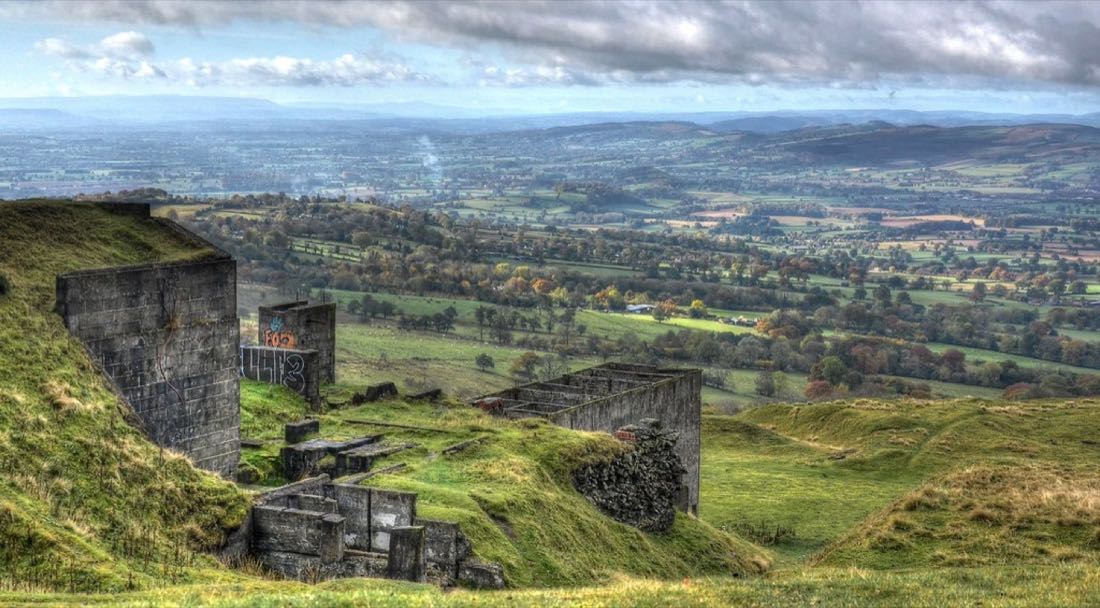
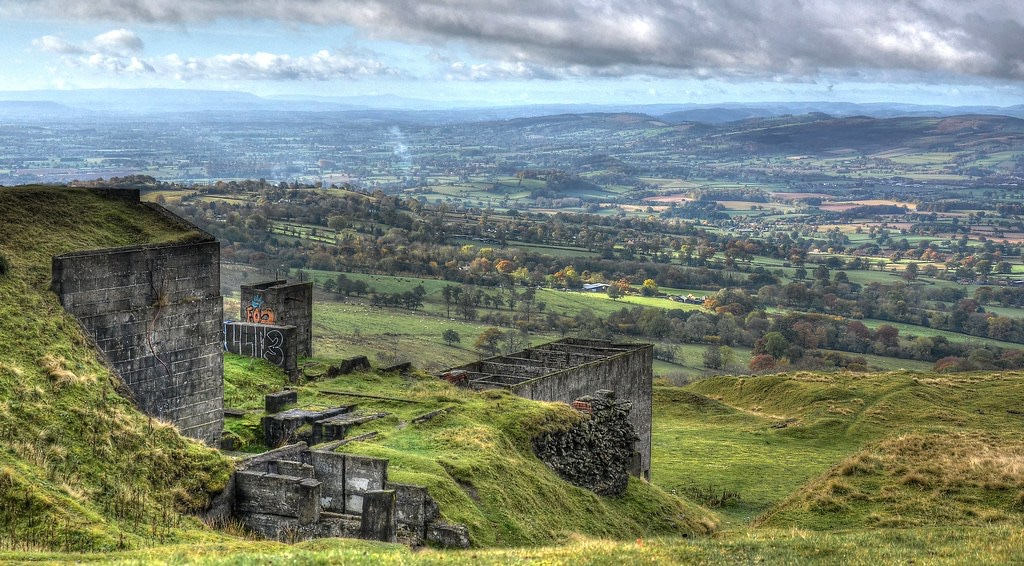
Use real Shropshire stay photographs and improve image quality

diff --git a/journeys.html b/journeys.html
@@ -6,7 +6,7 @@
 <meta name="description" content="Discover a more rewarding way to explore with Open Road's self-guided touring experience.">
 <title>Journeys | Open Road Technologies</title>
 <style>
-:root{--ink:#0a2233;--night:#061b2a;--teal:#00baa8;--bright:#51e7d3;--paper:#f7f6f1;--soft:#e9eee9;--body:#48606b}*{box-sizing:border-box}html{scroll-behavior:smooth}body{margin:0;background:var(--paper);color:var(--ink);font-family:system-ui,-apple-system,BlinkMacSystemFont,'Segoe UI',sans-serif;line-height:1.6}a{color:inherit}a:focus-visible{outline:3px solid #f5b642;outline-offset:5px}img{display:block;max-width:100%}.wrap{width:min(1180px,calc(100% - 48px));margin:auto}.site-header{background:var(--night);color:#fff}.nav{min-height:82px;display:flex;align-items:center;justify-content:space-between;gap:28px}.brand{text-decoration:none;font-weight:750;font-size:15px;letter-spacing:.16em;display:flex;align-items:center;gap:12px;line-height:1.25}.compass{color:var(--bright);font-size:31px;font-weight:400}.brand small{display:block;color:var(--bright);font-size:9px;letter-spacing:.32em}.navlinks{display:flex;gap:28px;align-items:center;font-size:14px}.navlinks a{text-decoration:none;color:#e1eceb}.navlinks a:hover{color:var(--bright)}.hero{background:var(--night);color:white;position:relative;min-height:570px;display:flex;align-items:center;overflow:hidden}.hero:before{content:'';position:absolute;inset:0;background:linear-gradient(90deg,#061b2a 0%,rgba(6,27,42,.96) 27%,rgba(6,27,42,.55) 58%,rgba(6,27,42,.1) 100%),url('assets/shropshire-journey.jpg') center 54%/cover}.hero .wrap{position:relative;padding:90px 0 100px}.eyebrow{text-transform:uppercase;letter-spacing:.17em;font-size:12px;font-weight:800;color:#007c73}.hero .eyebrow,.dark .eyebrow{color:var(--bright)}h1,h2,h3{font-family:Georgia,'Times New Roman',serif;line-height:1.1;letter-spacing:-.035em}h1{font-size:clamp(3.2rem,6.6vw,6rem);max-width:730px;margin:20px 0 24px}h2{font-size:clamp(2.3rem,4vw,3.8rem);margin:12px 0 20px}h3{font-size:1.55rem;margin:12px 0}.hero p{font-size:1.2rem;max-width:500px;color:#e2eceb}.button{display:inline-flex;align-items:center;justify-content:center;gap:18px;text-decoration:none;padding:14px 22px;border-radius:5px;background:var(--bright);color:#062a2b;font-weight:750;margin-top:18px}.button:hover{background:#a0f5e8}.steps{background:#e9ede8;border-bottom:1px solid #d5ded8}.steps .wrap{display:grid;grid-template-columns:repeat(3,1fr)}.step{display:flex;align-items:center;gap:17px;padding:25px 18px;border-right:1px solid #c8d8d0;font-family:Georgia,serif;font-size:1.1rem;font-weight:bold}.step:last-child{border:0}.step b{font-family:system-ui;color:#078f84;font-size:.72rem;letter-spacing:.1em}.section{padding:94px 0}.intro{max-width:720px}.intro p,.copy{color:var(--body);font-size:1.08rem}.features{display:grid;grid-template-columns:repeat(3,1fr);gap:26px;margin-top:42px}.feature{border-top:2px solid #a3dcd3;padding:24px 10px 0 0}.feature .number{color:#008b7f;font-size:.75rem;font-weight:800;letter-spacing:.15em}.feature p{color:var(--body);max-width:310px}.destination{background:var(--night);color:white;display:grid;grid-template-columns:1fr 1fr;min-height:440px}.destination-copy{padding:76px max(24px,calc((100vw - 1180px)/2));padding-right:56px;align-self:center}.destination-copy p{color:#d0dddd;max-width:410px}.destination-image{position:relative;min-height:320px;overflow:hidden;background:#183642}.slides{position:absolute;inset:0}.slide{position:absolute;inset:0;margin:0}.slide[hidden]{display:none}.slide img{width:100%;height:100%;object-fit:cover}.slideshow-controls{position:absolute;bottom:18px;right:18px;display:flex;gap:8px;align-items:center;padding:7px;background:rgba(6,27,42,.82);border-radius:7px}.slideshow-controls button{min-width:44px;min-height:44px;border:1px solid #b7d5d1;border-radius:4px;background:transparent;color:white;cursor:pointer;font:600 .85rem system-ui}.slideshow-controls button:hover{background:#24554f}.slideshow-controls button:focus-visible{outline:3px solid #f5b642;outline-offset:2px}.slide-count{font-size:.8rem;color:white;padding:0 5px;font-variant-numeric:tabular-nums}.slideshow-controls[hidden]{display:none}.showcase{background:#e9eee9}.showcase-grid{display:grid;grid-template-columns:1fr 1fr;gap:70px;align-items:center}.screens{display:flex;gap:14px;justify-content:center;align-items:center}.screens img{width:31%;border:4px solid #102736;border-radius:20px;box-shadow:0 18px 38px #10273625}.screens img:nth-child(2){transform:translateY(20px)}.showcase p{color:var(--body)}.stay{background:#eef2ed}.stay-grid{display:grid;grid-template-columns:1fr 1fr;gap:24px;margin-top:35px}.stay-card{background:#fff;border:1px solid #dce5dc;padding:34px;min-height:220px;display:flex;flex-direction:column;justify-content:space-between}.stay-icon{font-size:28px;color:#008e81}.stay-card p{color:var(--body);margin:0;max-width:450px}.story{display:grid;grid-template-columns:1fr 1fr;gap:70px;align-items:start}.story p{color:var(--body)}.note{border-left:3px solid var(--teal);padding:0 0 0 25px}.foot{background:var(--night);color:#d2e0df;padding:48px 0}.foot .wrap{display:flex;justify-content:space-between;gap:30px;flex-wrap:wrap}.foot a{color:var(--bright)}.foot p{margin:8px 0;font-size:.9rem}@media(max-width:750px){.wrap{width:min(100% - 36px,1180px)}.nav{padding:18px 0;align-items:flex-start}.navlinks{gap:10px 16px;flex-wrap:wrap;justify-content:flex-end;font-size:12px}.hero{min-height:540px}.hero:before{background:linear-gradient(90deg,rgba(6,27,42,.93),rgba(6,27,42,.55)),url('assets/shropshire-journey.jpg') 62% center/cover}.hero .wrap{padding:80px 0}.steps .wrap{grid-template-columns:1fr}.step{border-right:0;border-bottom:1px solid #c8d8d0;padding:13px 0}.features,.stay-grid,.story,.destination,.showcase-grid{grid-template-columns:1fr}.showcase-grid{gap:32px}.screens{padding:0 0 20px}.section{padding:65px 0}.destination-copy{padding:65px 24px}.destination-image{min-height:270px}.story{gap:30px}}@media(prefers-reduced-motion:reduce){html{scroll-behavior:auto}}
+:root{--ink:#0a2233;--night:#061b2a;--teal:#00baa8;--bright:#51e7d3;--paper:#f7f6f1;--soft:#e9eee9;--body:#48606b}*{box-sizing:border-box}html{scroll-behavior:smooth}body{margin:0;background:var(--paper);color:var(--ink);font-family:system-ui,-apple-system,BlinkMacSystemFont,'Segoe UI',sans-serif;line-height:1.6}a{color:inherit}a:focus-visible{outline:3px solid #f5b642;outline-offset:5px}img{display:block;max-width:100%}.wrap{width:min(1180px,calc(100% - 48px));margin:auto}.site-header{background:var(--night);color:#fff}.nav{min-height:82px;display:flex;align-items:center;justify-content:space-between;gap:28px}.brand{text-decoration:none;font-weight:750;font-size:15px;letter-spacing:.16em;display:flex;align-items:center;gap:12px;line-height:1.25}.compass{color:var(--bright);font-size:31px;font-weight:400}.brand small{display:block;color:var(--bright);font-size:9px;letter-spacing:.32em}.navlinks{display:flex;gap:28px;align-items:center;font-size:14px}.navlinks a{text-decoration:none;color:#e1eceb}.navlinks a:hover{color:var(--bright)}.hero{background:var(--night);color:white;position:relative;min-height:570px;display:flex;align-items:center;overflow:hidden}.hero:before{content:'';position:absolute;inset:0;background:linear-gradient(90deg,#061b2a 0%,rgba(6,27,42,.96) 27%,rgba(6,27,42,.55) 58%,rgba(6,27,42,.1) 100%),url('assets/hilltop-view.jpg?v=2') center 54%/cover}.hero .wrap{position:relative;padding:90px 0 100px}.eyebrow{text-transform:uppercase;letter-spacing:.17em;font-size:12px;font-weight:800;color:#007c73}.hero .eyebrow,.dark .eyebrow{color:var(--bright)}h1,h2,h3{font-family:Georgia,'Times New Roman',serif;line-height:1.1;letter-spacing:-.035em}h1{font-size:clamp(3.2rem,6.6vw,6rem);max-width:730px;margin:20px 0 24px}h2{font-size:clamp(2.3rem,4vw,3.8rem);margin:12px 0 20px}h3{font-size:1.55rem;margin:12px 0}.hero p{font-size:1.2rem;max-width:500px;color:#e2eceb}.button{display:inline-flex;align-items:center;justify-content:center;gap:18px;text-decoration:none;padding:14px 22px;border-radius:5px;background:var(--bright);color:#062a2b;font-weight:750;margin-top:18px}.button:hover{background:#a0f5e8}.steps{background:#e9ede8;border-bottom:1px solid #d5ded8}.steps .wrap{display:grid;grid-template-columns:repeat(3,1fr)}.step{display:flex;align-items:center;gap:17px;padding:25px 18px;border-right:1px solid #c8d8d0;font-family:Georgia,serif;font-size:1.1rem;font-weight:bold}.step:last-child{border:0}.step b{font-family:system-ui;color:#078f84;font-size:.72rem;letter-spacing:.1em}.section{padding:94px 0}.intro{max-width:720px}.intro p,.copy{color:var(--body);font-size:1.08rem}.features{display:grid;grid-template-columns:repeat(3,1fr);gap:26px;margin-top:42px}.feature{border-top:2px solid #a3dcd3;padding:24px 10px 0 0}.feature .number{color:#008b7f;font-size:.75rem;font-weight:800;letter-spacing:.15em}.feature p{color:var(--body);max-width:310px}.destination{background:var(--night);color:white;display:grid;grid-template-columns:1fr 1fr;min-height:440px}.destination-copy{padding:76px max(24px,calc((100vw - 1180px)/2));padding-right:56px;align-self:center}.destination-copy p{color:#d0dddd;max-width:410px}.destination-image{position:relative;min-height:320px;overflow:hidden;background:#183642}.slides{position:absolute;inset:0}.slide{position:absolute;inset:0;margin:0}.slide[hidden]{display:none}.slide img{width:100%;height:100%;object-fit:cover}.slide figcaption{position:absolute;top:14px;left:14px;background:rgba(6,27,42,.78);color:white;font-size:.72rem;padding:4px 8px;border-radius:4px}.image-note{display:block;color:#62767e;font-size:.75rem;margin-top:12px}.slideshow-controls{position:absolute;bottom:18px;right:18px;display:flex;gap:8px;align-items:center;padding:7px;background:rgba(6,27,42,.82);border-radius:7px}.slideshow-controls button{min-width:44px;min-height:44px;border:1px solid #b7d5d1;border-radius:4px;background:transparent;color:white;cursor:pointer;font:600 .85rem system-ui}.slideshow-controls button:hover{background:#24554f}.slideshow-controls button:focus-visible{outline:3px solid #f5b642;outline-offset:2px}.slide-count{font-size:.8rem;color:white;padding:0 5px;font-variant-numeric:tabular-nums}.slideshow-controls[hidden]{display:none}.showcase{background:#e9eee9}.showcase-grid{display:grid;grid-template-columns:1fr 1fr;gap:70px;align-items:center}.screens{display:flex;gap:14px;justify-content:center;align-items:center}.screens img{width:31%;border:4px solid #102736;border-radius:20px;box-shadow:0 18px 38px #10273625}.screens img:nth-child(2){transform:translateY(20px)}.showcase p{color:var(--body)}.stay{background:#eef2ed}.stay-grid{display:grid;grid-template-columns:1fr 1fr;gap:24px;margin-top:35px}.stay-card{background:#fff;border:1px solid #dce5dc;overflow:hidden}.stay-card img{width:100%;height:240px;object-fit:cover}.stay-card .stay-copy{padding:24px 30px 30px}.stay-icon{font-size:28px;color:#008e81}.stay-card p{color:var(--body);margin:0;max-width:450px}.story{display:grid;grid-template-columns:1fr 1fr;gap:70px;align-items:start}.story p{color:var(--body)}.note{border-left:3px solid var(--teal);padding:0 0 0 25px}.foot{background:var(--night);color:#d2e0df;padding:48px 0}.foot .wrap{display:flex;justify-content:space-between;gap:30px;flex-wrap:wrap}.foot a{color:var(--bright)}.foot p{margin:8px 0;font-size:.9rem}@media(max-width:750px){.wrap{width:min(100% - 36px,1180px)}.nav{padding:18px 0;align-items:flex-start}.navlinks{gap:10px 16px;flex-wrap:wrap;justify-content:flex-end;font-size:12px}.hero{min-height:540px}.hero:before{background:linear-gradient(90deg,rgba(6,27,42,.93),rgba(6,27,42,.55)),url('assets/hilltop-view.jpg?v=2') 62% center/cover}.hero .wrap{padding:80px 0}.steps .wrap{grid-template-columns:1fr}.step{border-right:0;border-bottom:1px solid #c8d8d0;padding:13px 0}.features,.stay-grid,.story,.destination,.showcase-grid{grid-template-columns:1fr}.showcase-grid{gap:32px}.screens{padding:0 0 20px}.section{padding:65px 0}.destination-copy{padding:65px 24px}.destination-image{min-height:270px}.story{gap:30px}}@media(prefers-reduced-motion:reduce){html{scroll-behavior:auto}}
 </style>
 </head>
 <body>
@@ -18,15 +18,14 @@
 <section class="section showcase"><div class="wrap showcase-grid"><div><span class="eyebrow">See Open Road in action</span><h2>Your journey, in your hands.</h2><p>Explore your tours, find places to see and enjoy location-aware stories as you travel. These screenshots show the Open Road touring experience.</p></div><div class="screens"><img src="assets/app-tours.jpg" alt="My Tours showing Ludlow and Shropshire and Jurassic Coast tours" loading="lazy"><img src="assets/app-discover.jpg" alt="Things to See and Do around Ludlow" loading="lazy"><img src="assets/app-tour.jpg" alt="An active tour with a map and narration playing" loading="lazy"></div></div></section>
 <section class="destination dark" id="explore"><div class="destination-copy"><span class="eyebrow">A journey to inspire</span><h2>Explore Ludlow and Shropshire.</h2><p>From Ludlow’s historic streets to the Shropshire Hills, discover local stories and memorable places along the way.</p><a class="button" href="mailto:hello@openroadtechnologies.co.uk?subject=Ludlow%20and%20Shropshire%20tour%20enquiry">Ask us about the tour <span aria-hidden="true">→</span></a></div><div class="destination-image" role="region" aria-roledescription="carousel" aria-label="Views from the journey">
 <div class="slides">
-<figure class="slide" aria-label="1 of 5"><img src="assets/shropshire-hills.jpg" alt="A green valley with a stream and track through the hills"></figure>
-<figure class="slide" aria-label="2 of 5" hidden><img src="assets/country-house.jpg" alt="Longhorn cattle beside a country house" loading="lazy"></figure>
-<figure class="slide" aria-label="3 of 5" hidden><img src="assets/discovery-centre.jpg" alt="A visitor centre with a green roof among wooded hills" loading="lazy"></figure>
-<figure class="slide" aria-label="4 of 5" hidden><img src="assets/river-town.jpg" alt="Illustration of a riverside town and stone bridge at sunset" loading="lazy"></figure>
-<figure class="slide" aria-label="5 of 5" hidden><img src="assets/hilltop-view.jpg" alt="A hilltop view over fields and distant hills" loading="lazy"></figure>
+<figure class="slide" aria-label="1 of 4"><img src="assets/country-house.jpg?v=2" alt="Longhorn cattle beside a country house"></figure>
+<figure class="slide" aria-label="2 of 4" hidden><img src="assets/discovery-centre.jpg?v=2" alt="A visitor centre with a green roof among wooded hills" loading="lazy"></figure>
+<figure class="slide" aria-label="3 of 4" hidden><img src="assets/hilltop-view.jpg?v=2" alt="A hilltop view over fields and distant hills" loading="lazy"></figure>
+<figure class="slide" aria-label="4 of 4" hidden><img src="assets/shropshire-hills.jpg?v=2" alt="A green valley with a stream and track through the hills" loading="lazy"></figure>
 </div>
-<div class="slideshow-controls" aria-label="Slideshow controls" hidden><button type="button" data-action="prev" aria-label="Previous image">←</button><span class="slide-count" aria-hidden="true">1 / 5</span><button type="button" data-action="next" aria-label="Next image">→</button><button type="button" data-action="toggle" aria-label="Pause slideshow">Pause</button></div>
+<div class="slideshow-controls" aria-label="Slideshow controls" hidden><button type="button" data-action="prev" aria-label="Previous image">←</button><span class="slide-count" aria-hidden="true">1 / 4</span><button type="button" data-action="next" aria-label="Next image">→</button><button type="button" data-action="toggle" aria-label="Pause slideshow">Pause</button></div>
 </div></section>
-<section class="section stay" id="stay"><div class="wrap"><div class="intro"><span class="eyebrow">Along the way</span><h2>Find your kind of stay.</h2><p>From a night under the stars to a welcoming hotel, explore places to pause and make more of your journey.</p></div><div class="stay-grid"><article class="stay-card"><div class="stay-icon" aria-hidden="true">⌂</div><div><h3>Campsites</h3><p>Find places to settle in, put the kettle on and enjoy the scenery around you.</p></div></article><article class="stay-card"><div class="stay-icon" aria-hidden="true">◇</div><div><h3>Hotels</h3><p>Discover welcoming places to stay, from country escapes to coastal bases.</p></div></article></div></div></section>
+<section class="section stay" id="stay"><div class="wrap"><div class="intro"><span class="eyebrow">Along the way</span><h2>Find your kind of stay.</h2><p>From a night under the stars to a welcoming hotel, explore places to pause and make more of your journey.</p></div><div class="stay-grid"><article class="stay-card"><img src="https://upload.wikimedia.org/wikipedia/commons/d/d8/Smallbatch_Campsite_-_geograph.org.uk_-_7822051.jpg" alt="Small Batch campsite in the Shropshire Hills" loading="lazy" referrerpolicy="no-referrer"><div class="stay-copy"><h3>Campsites</h3><p>Discover <a href="https://www.smallbatch-camping.co.uk/">Small Batch in the Shropshire Hills</a> or explore <a href="https://www.love2stay.co.uk/shrewsbury/">Love2Stay near Shrewsbury</a>.</p><span class="image-note">Photo: <a href="https://www.geograph.org.uk/photo/7822051">Richard Webb, Small Batch</a> · <a href="https://creativecommons.org/licenses/by-sa/2.0/">CC BY-SA 2.0</a> · cropped for display. This is not a photograph of Love2Stay.</span></div></article><article class="stay-card"><img src="https://upload.wikimedia.org/wikipedia/commons/8/80/Fishmore_Hall_Hotel_garden_and_pasture_beyond_-_geograph.org.uk_-_3756133.jpg" alt="The garden and countryside beyond Fishmore Hall Hotel near Ludlow" loading="lazy" referrerpolicy="no-referrer"><div class="stay-copy"><h3>Hotels</h3><p>Discover welcoming places to stay, including <a href="https://www.fishmorehall.co.uk/">Fishmore Hall, a country house hotel near Ludlow</a>.</p><span class="image-note">Photo: <a href="https://www.geograph.org.uk/photo/3756133">Stuart Logan, Fishmore Hall garden</a> · <a href="https://creativecommons.org/licenses/by-sa/2.0/">CC BY-SA 2.0</a> · cropped for display.</span></div></article></div></div></section>
 <section class="section"><div class="wrap story"><div><span class="eyebrow">Made for curious travellers</span><h2>There’s more to the journey.</h2></div><div class="note"><p>Open Road Technologies is an independent UK software company creating thoughtful experiences for people who explore. We believe the best journeys leave room for a story, a detour and a place worth remembering.</p><p>Have a question or want to know more? We’d love to hear from you.</p><a href="mailto:hello@openroadtechnologies.co.uk">Get in touch →</a></div></div></section>
 </main>
 <footer class="foot"><div class="wrap"><div><strong>OPEN ROAD TECHNOLOGIES</strong><p>Thoughtful technology for the journey ahead.</p></div><div><p><a href="mailto:hello@openroadtechnologies.co.uk">hello@openroadtechnologies.co.uk</a></p><p><a href="index.html">Back to our company site</a></p></div></div></footer>
